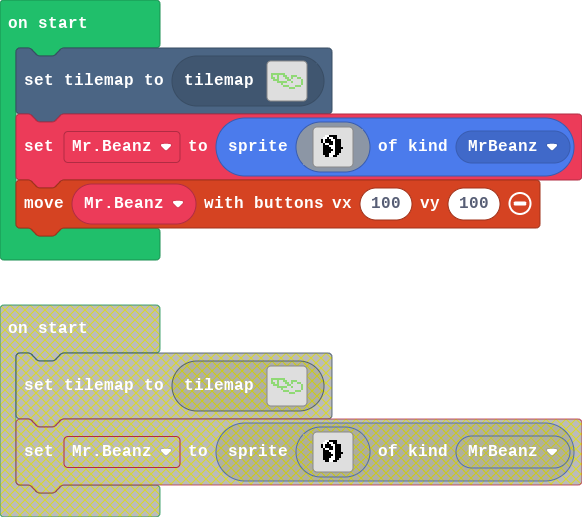
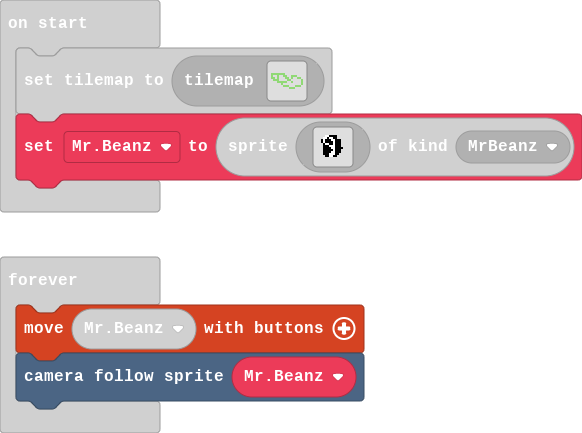
Update main.blocks, main.ts, tilemap.g.jres, tilemap.g.ts

diff --git a/tilemap.g.ts b/tilemap.g.ts
@@ -81,6 +81,44 @@ namespace myTiles {
 . . . . . . . . . . . . . . . . 
 . . . . . . . . . . . . . . . . 
 `, [myTiles.transparency16], TileScale.Sixteen);
+            case "level5":
+            case "level5":return tiles.createTilemap(hex`1000100000000000000000000000000000000000000000000000000000000000000000000000000000000000000000000000000000000000000000000000000000000000000000000000000000000000000000000000000000000000000000000000000000000000000000000000000000000000000000000000000000000000000000000000000000000000000000000000000000000000000000000000000000000000000000000000000000000000000000000000000000000000000000000000000000000000000000000000000000000000000000000000000000000000000000000000000000000000000000000000000000000000000000000000000000000000`, img`
+. . . . . . . . . . . . . . . . 
+. . . . . . . . . . . . . . . . 
+. . . . . . . . . . . . . . . . 
+. . . . . . . . . . . . . . . . 
+. . . . . . . . . . . . . . . . 
+. . . . . . . . . . . . . . . . 
+. . . . . . . . . . . . . . . . 
+. . . . . . . . . . . . . . . . 
+. . . . . . . . . . . . . . . . 
+. . . . . . . . . . . . . . . . 
+. . . . . . . . . . . . . . . . 
+. . . . . . . . . . . . . . . . 
+. . . . . . . . . . . . . . . . 
+. . . . . . . . . . . . . . . . 
+. . . . . . . . . . . . . . . . 
+. . . . . . . . . . . . . . . . 
+`, [myTiles.transparency16], TileScale.Sixteen);
+            case "level6":
+            case "level6":return tiles.createTilemap(hex`1000100000000000000000000000000000000000000000000000000000000000000000000000000000000000000000000000000000000000000000000000000000000000000000000000000000000000000000000000000000000000000000000000000000000000000000000000000000000000000000000000000000000000000000000000000000000000000000000000000000000000000000000000000000000000000000000000000000000000000000000000000000000000000000000000000000000000000000000000000000000000000000000000000000000000000000000000000000000000000000000000000000000000000000000000000000000000`, img`
+. . . . . . . . . . . . . . . . 
+. . . . . . . . . . . . . . . . 
+. . . . . . . . . . . . . . . . 
+. . . . . . . . . . . . . . . . 
+. . . . . . . . . . . . . . . . 
+. . . . . . . . . . . . . . . . 
+. . . . . . . . . . . . . . . . 
+. . . . . . . . . . . . . . . . 
+. . . . . . . . . . . . . . . . 
+. . . . . . . . . . . . . . . . 
+. . . . . . . . . . . . . . . . 
+. . . . . . . . . . . . . . . . 
+. . . . . . . . . . . . . . . . 
+. . . . . . . . . . . . . . . . 
+. . . . . . . . . . . . . . . . 
+. . . . . . . . . . . . . . . . 
+`, [myTiles.transparency16], TileScale.Sixteen);
         }
         return null;
     })

diff --git a/main.ts b/main.ts
@@ -20,7 +20,7 @@ let MrBeanz = sprites.create(img`
     . . . . . . . . . . . . . . . . 
     . . . . . . . . . . . . . . . . 
     `, SpriteKind.MrBeanz)
-controller.moveSprite(MrBeanz, 100, 100)
 forever(function () {
-	
+    controller.moveSprite(MrBeanz)
+    scene.cameraFollowSprite(MrBeanz)
 })
